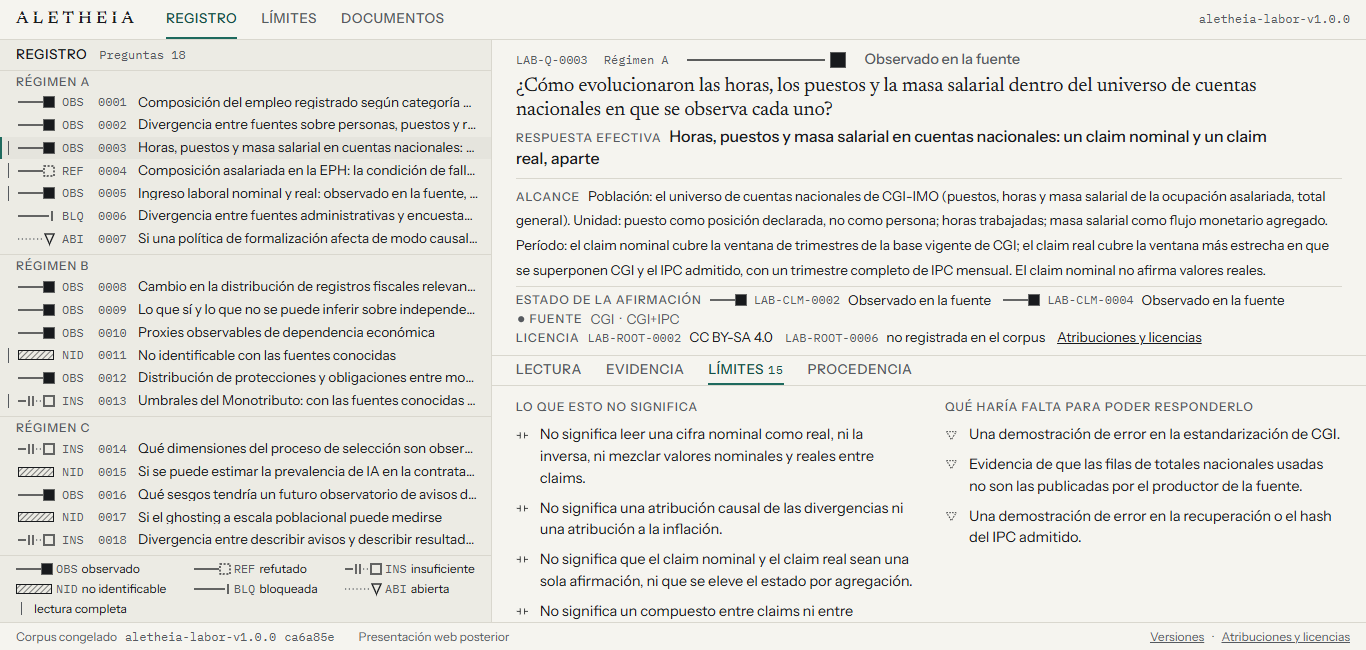
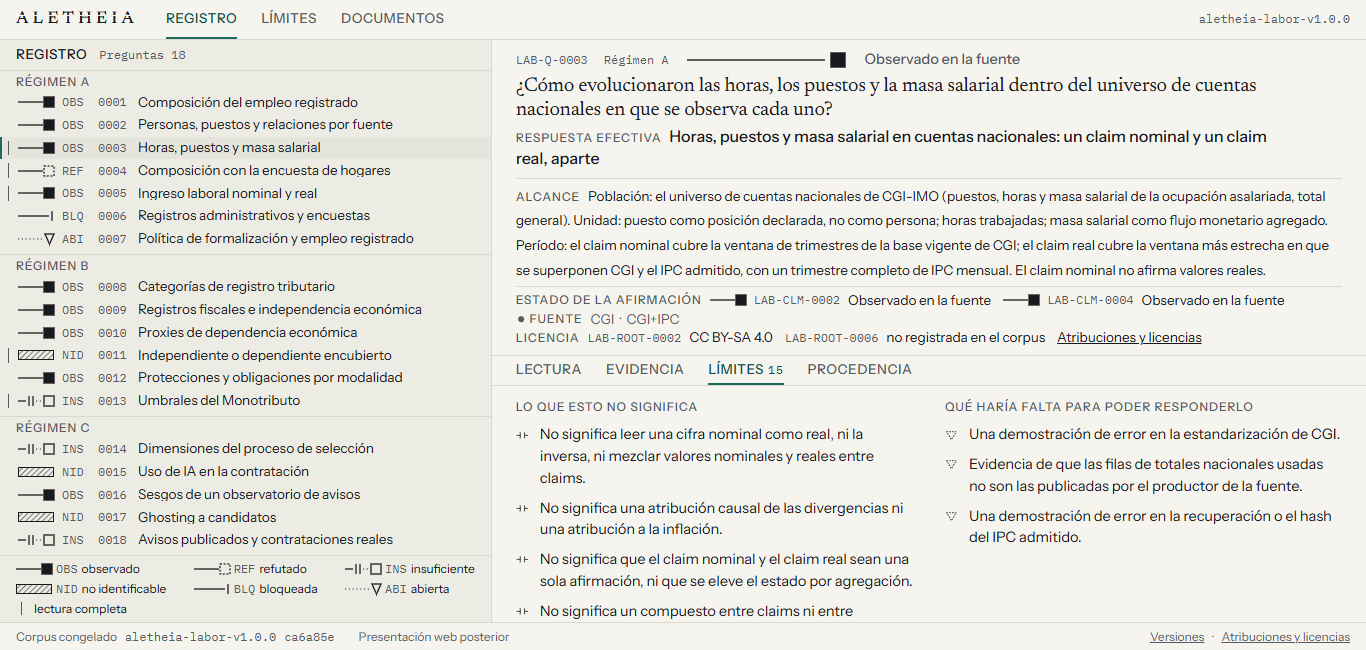
docs(web): refresh registro-folio review shots for the full redesign
Regenerate the Registro + Folio review shots and contact sheets with the 18 navigation titles, add 1366x768 shots of every route (docs/redesign/shots/all) and regenerate the short-title report. Scripts: per-route audit, --only viewport.

Changed region(s): [[0.0922, 0.6769, 0.3382, 0.8615], [0.0922, 0.4308, 0.3382, 0.6462], [0.0922, 0.1538, 0.3382, 0.4]]

diff --git a/scripts/e2e/registro-audit.ts b/scripts/e2e/registro-audit.ts
@@ -6,10 +6,11 @@ import { serveDist } from "./serve.ts";
 /**
  * Recorre TODAS las rutas del shell Registro + Folio y mide, por viewport de escritorio: scroll global (debe ser 0),
  * áreas con scroll interno, altura útil bajo las pestañas del Folio y desborde horizontal. Opcionalmente guarda capturas.
- * Uso: node scripts/e2e/registro-audit.ts [carpeta de capturas]
+ * Uso: node scripts/e2e/registro-audit.ts [carpeta de capturas] [viewport, p. ej. 1366x768]
  */
 const root = resolve(import.meta.dirname, "..", "..");
 const out = process.argv[2] === undefined ? null : resolve(process.argv[2]);
+const only = process.argv[3];
 const EDGE =
   process.env["EDGE_PATH"] ?? "C:/Program Files (x86)/Microsoft/Edge/Application/msedge.exe";
 const VIEWPORTS = [
@@ -31,14 +32,14 @@ const ROUTES = [
   "/metodo",
   "/versiones",
   "/sobre",
-  "/no-existe",
+  "/404",
 ];
 if (out !== null) mkdirSync(out, { recursive: true });
 const { server, origin } = await serveDist(join(root, "dist"));
 const browser = await chromium.launch({ executablePath: EDGE, headless: true });
 let bad = 0;
 try {
-  for (const vp of VIEWPORTS) {
+  for (const vp of VIEWPORTS.filter((v) => only === undefined || v.name === only)) {
     const ctx = await browser.newContext({
       viewport: { width: vp.width, height: vp.height },
       deviceScaleFactor: 1,

diff --git a/docs/redesign/REGISTRO-TITLES-REPORT.md b/docs/redesign/REGISTRO-TITLES-REPORT.md
@@ -1,28 +1,28 @@
-# Registro · títulos cortos (reporte, 1366 px)
+# Registro · títulos cortos de navegación (reporte, 1366 px)
 
 Reporte generado por `scripts/e2e/registro-titles.ts` sobre la Home construida, a 1366×768 (el Registro mide igual a 1366×650).
-**No aprueba ni cambia ningún texto.** Todos los títulos están `PENDING_AUTHOR_REVIEW`; su aprobación es una decisión humana posterior.
-Los títulos son los ya existentes en el corpus editorial (título de la ficha para las cinco con lectura completa, glosa pública para las demás); no se inventó ninguno.
+Son textos editoriales nuevos (`nav_titles`), derivados de la pregunta pública de cada ficha: no la reemplazan ni cambian su estado.
+**Todos están `PENDING_AUTHOR_REVIEW`; su aprobación es una decisión humana.** Ninguno usa cifras, verbos de causa ni el estado.
 
 **0 de 18 se truncan** con puntos suspensivos en el Registro a 1366 px.
 
-| ID | Título corto actual | ¿Truncado a 1366? | Longitud (caracteres) | Fuente editorial |
+| ID | Título corto de navegación | ¿Truncado a 1366? | Longitud (caracteres) | Fuente editorial |
 |---|---|---|---|---|
-| LAB-Q-0001 | Composición del empleo registrado | No | 33 | `editorial/site/glosses.yml` → `gloss-q0001-title` (auditoría `labor/LAB-Q-0001#public_title`) |
-| LAB-Q-0002 | Personas, puestos y relaciones por fuente | No | 41 | `editorial/site/glosses.yml` → `gloss-q0002-title` (auditoría `labor/LAB-Q-0002#public_title`) |
-| LAB-Q-0003 | Horas, puestos y masa salarial | No | 30 | `editorial/labor/findings/LAB-Q-0003.yml` → `labor/LAB-Q-0003#finding.title` (auditoría) |
-| LAB-Q-0004 | Composición con la encuesta de hogares | No | 38 | `editorial/labor/findings/LAB-Q-0004.yml` → `labor/LAB-Q-0004#finding.title` (auditoría) |
-| LAB-Q-0005 | Ingreso laboral nominal y real | No | 30 | `editorial/labor/findings/LAB-Q-0005.yml` → `labor/LAB-Q-0005#finding.title` (auditoría) |
-| LAB-Q-0006 | Registros administrativos y encuestas | No | 37 | `editorial/site/glosses.yml` → `gloss-q0006-title` (auditoría `labor/LAB-Q-0006#public_title`) |
-| LAB-Q-0007 | Política de formalización y empleo registrado | No | 45 | `editorial/site/glosses.yml` → `gloss-q0007-title` (auditoría `labor/LAB-Q-0007#public_title`) |
-| LAB-Q-0008 | Categorías de registro tributario | No | 33 | `editorial/site/glosses.yml` → `gloss-q0008-title` (auditoría `labor/LAB-Q-0008#public_title`) |
-| LAB-Q-0009 | Registros fiscales e independencia económica | No | 44 | `editorial/site/glosses.yml` → `gloss-q0009-title` (auditoría `labor/LAB-Q-0009#public_title`) |
-| LAB-Q-0010 | Proxies de dependencia económica | No | 32 | `editorial/site/glosses.yml` → `gloss-q0010-title` (auditoría `labor/LAB-Q-0010#public_title`) |
-| LAB-Q-0011 | Independiente o dependiente encubierto | No | 38 | `editorial/labor/findings/LAB-Q-0011.yml` → `labor/LAB-Q-0011#finding.title` (auditoría) |
-| LAB-Q-0012 | Protecciones y obligaciones por modalidad | No | 41 | `editorial/site/glosses.yml` → `gloss-q0012-title` (auditoría `labor/LAB-Q-0012#public_title`) |
-| LAB-Q-0013 | Umbrales del Monotributo | No | 24 | `editorial/labor/findings/LAB-Q-0013.yml` → `labor/LAB-Q-0013#finding.title` (auditoría) |
-| LAB-Q-0014 | Dimensiones del proceso de selección | No | 36 | `editorial/site/glosses.yml` → `gloss-q0014-title` (auditoría `labor/LAB-Q-0014#public_title`) |
-| LAB-Q-0015 | Uso de IA en la contratación | No | 28 | `editorial/site/glosses.yml` → `gloss-q0015-title` (auditoría `labor/LAB-Q-0015#public_title`) |
-| LAB-Q-0016 | Sesgos de un observatorio de avisos | No | 35 | `editorial/site/glosses.yml` → `gloss-q0016-title` (auditoría `labor/LAB-Q-0016#public_title`) |
-| LAB-Q-0017 | Ghosting a candidatos | No | 21 | `editorial/site/glosses.yml` → `gloss-q0017-title` (auditoría `labor/LAB-Q-0017#public_title`) |
-| LAB-Q-0018 | Avisos publicados y contrataciones reales | No | 41 | `editorial/site/glosses.yml` → `gloss-q0018-title` (auditoría `labor/LAB-Q-0018#public_title`) |
+| LAB-Q-0001 | Composición del empleo registrado | No | 33 | `editorial/site/glosses.yml` → `nav_titles.LAB-Q-0001` (`nav-q0001`; auditoría `labor/LAB-Q-0001#nav_title`) |
+| LAB-Q-0002 | Personas, puestos y relaciones por fuente | No | 41 | `editorial/site/glosses.yml` → `nav_titles.LAB-Q-0002` (`nav-q0002`; auditoría `labor/LAB-Q-0002#nav_title`) |
+| LAB-Q-0003 | Horas, puestos y masa salarial | No | 30 | `editorial/site/glosses.yml` → `nav_titles.LAB-Q-0003` (`nav-q0003`; auditoría `labor/LAB-Q-0003#nav_title`) |
+| LAB-Q-0004 | Composición con la encuesta de hogares | No | 38 | `editorial/site/glosses.yml` → `nav_titles.LAB-Q-0004` (`nav-q0004`; auditoría `labor/LAB-Q-0004#nav_title`) |
+| LAB-Q-0005 | Ingreso laboral nominal y real | No | 30 | `editorial/site/glosses.yml` → `nav_titles.LAB-Q-0005` (`nav-q0005`; auditoría `labor/LAB-Q-0005#nav_title`) |
+| LAB-Q-0006 | Registros administrativos y encuestas | No | 37 | `editorial/site/glosses.yml` → `nav_titles.LAB-Q-0006` (`nav-q0006`; auditoría `labor/LAB-Q-0006#nav_title`) |
+| LAB-Q-0007 | Política de formalización y empleo registrado | No | 45 | `editorial/site/glosses.yml` → `nav_titles.LAB-Q-0007` (`nav-q0007`; auditoría `labor/LAB-Q-0007#nav_title`) |
+| LAB-Q-0008 | Categorías de registro tributario | No | 33 | `editorial/site/glosses.yml` → `nav_titles.LAB-Q-0008` (`nav-q0008`; auditoría `labor/LAB-Q-0008#nav_title`) |
+| LAB-Q-0009 | Registros fiscales e independencia económica | No | 44 | `editorial/site/glosses.yml` → `nav_titles.LAB-Q-0009` (`nav-q0009`; auditoría `labor/LAB-Q-0009#nav_title`) |
+| LAB-Q-0010 | Proxies de dependencia económica | No | 32 | `editorial/site/glosses.yml` → `nav_titles.LAB-Q-0010` (`nav-q0010`; auditoría `labor/LAB-Q-0010#nav_title`) |
+| LAB-Q-0011 | Independiente o dependiente encubierto | No | 38 | `editorial/site/glosses.yml` → `nav_titles.LAB-Q-0011` (`nav-q0011`; auditoría `labor/LAB-Q-0011#nav_title`) |
+| LAB-Q-0012 | Protecciones y obligaciones por modalidad | No | 41 | `editorial/site/glosses.yml` → `nav_titles.LAB-Q-0012` (`nav-q0012`; auditoría `labor/LAB-Q-0012#nav_title`) |
+| LAB-Q-0013 | Umbrales del Monotributo | No | 24 | `editorial/site/glosses.yml` → `nav_titles.LAB-Q-0013` (`nav-q0013`; auditoría `labor/LAB-Q-0013#nav_title`) |
+| LAB-Q-0014 | Dimensiones del proceso de selección | No | 36 | `editorial/site/glosses.yml` → `nav_titles.LAB-Q-0014` (`nav-q0014`; auditoría `labor/LAB-Q-0014#nav_title`) |
+| LAB-Q-0015 | Uso de IA en la contratación | No | 28 | `editorial/site/glosses.yml` → `nav_titles.LAB-Q-0015` (`nav-q0015`; auditoría `labor/LAB-Q-0015#nav_title`) |
+| LAB-Q-0016 | Sesgos de un observatorio de avisos | No | 35 | `editorial/site/glosses.yml` → `nav_titles.LAB-Q-0016` (`nav-q0016`; auditoría `labor/LAB-Q-0016#nav_title`) |
+| LAB-Q-0017 | Ghosting a candidatos | No | 21 | `editorial/site/glosses.yml` → `nav_titles.LAB-Q-0017` (`nav-q0017`; auditoría `labor/LAB-Q-0017#nav_title`) |
+| LAB-Q-0018 | Avisos publicados y contrataciones reales | No | 41 | `editorial/site/glosses.yml` → `nav_titles.LAB-Q-0018` (`nav-q0018`; auditoría `labor/LAB-Q-0018#nav_title`) |
